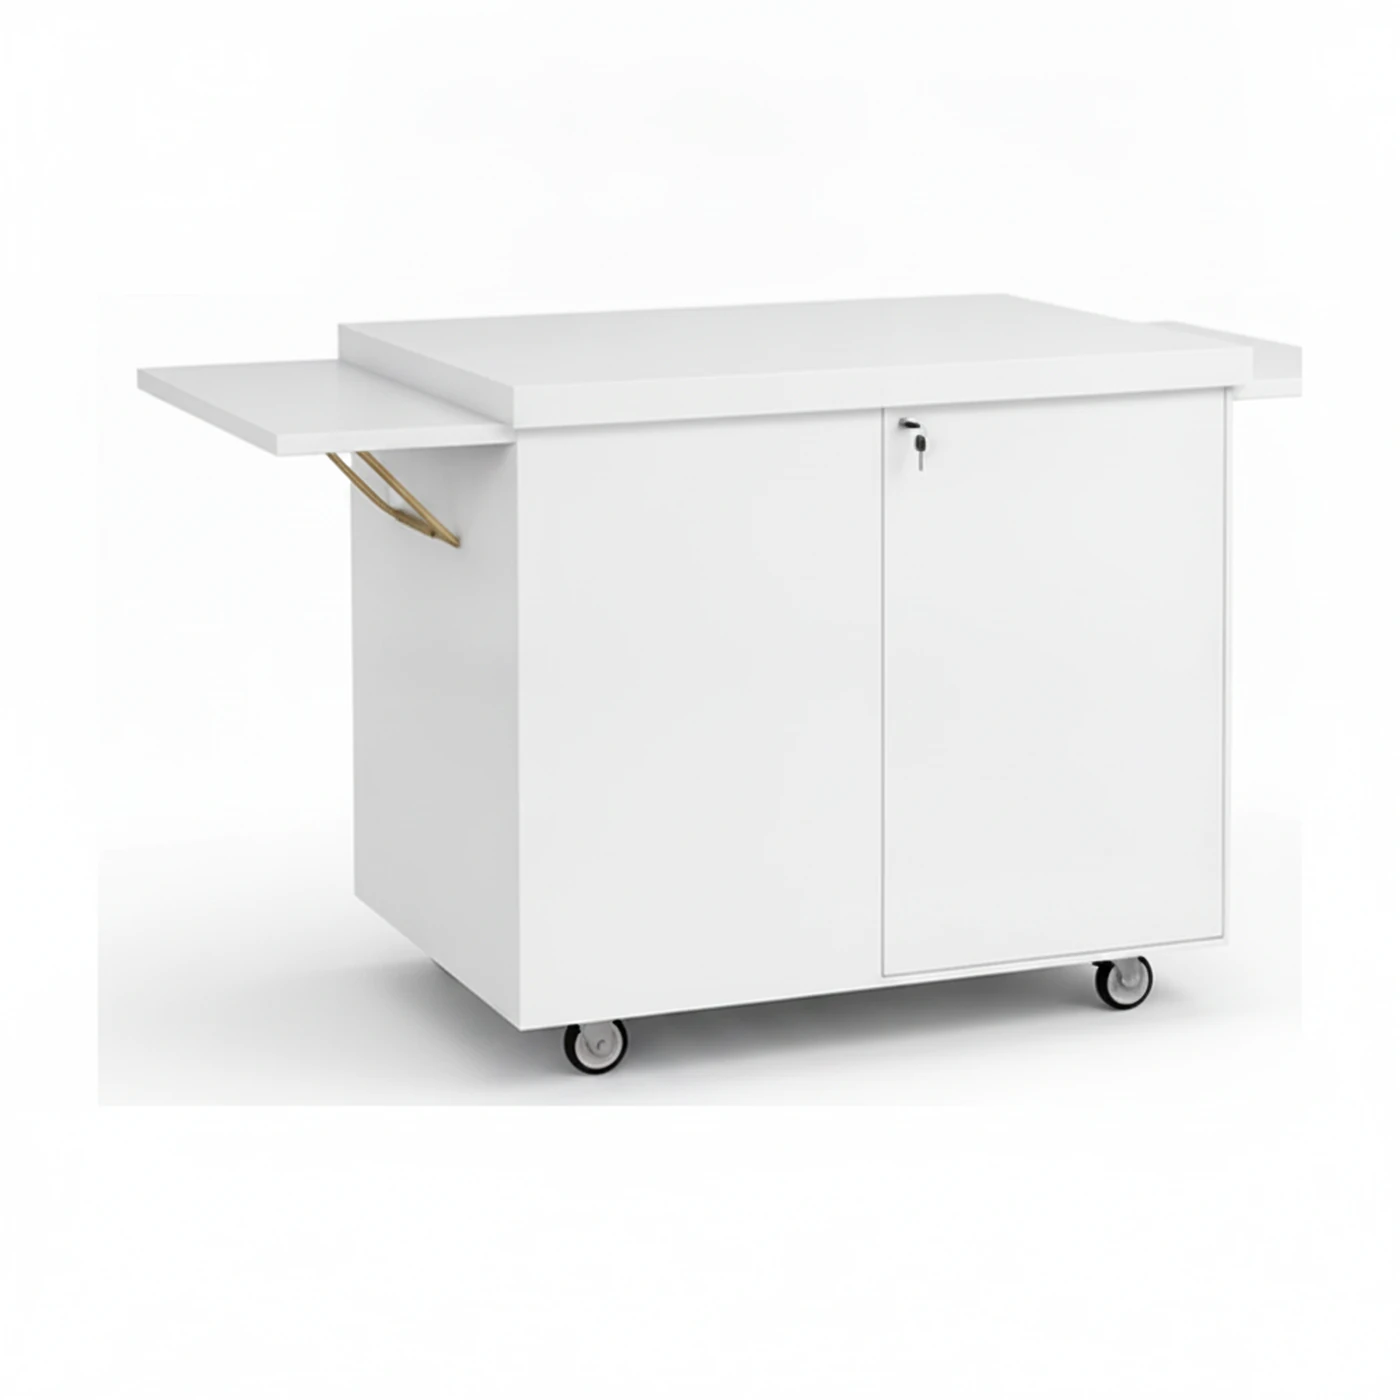
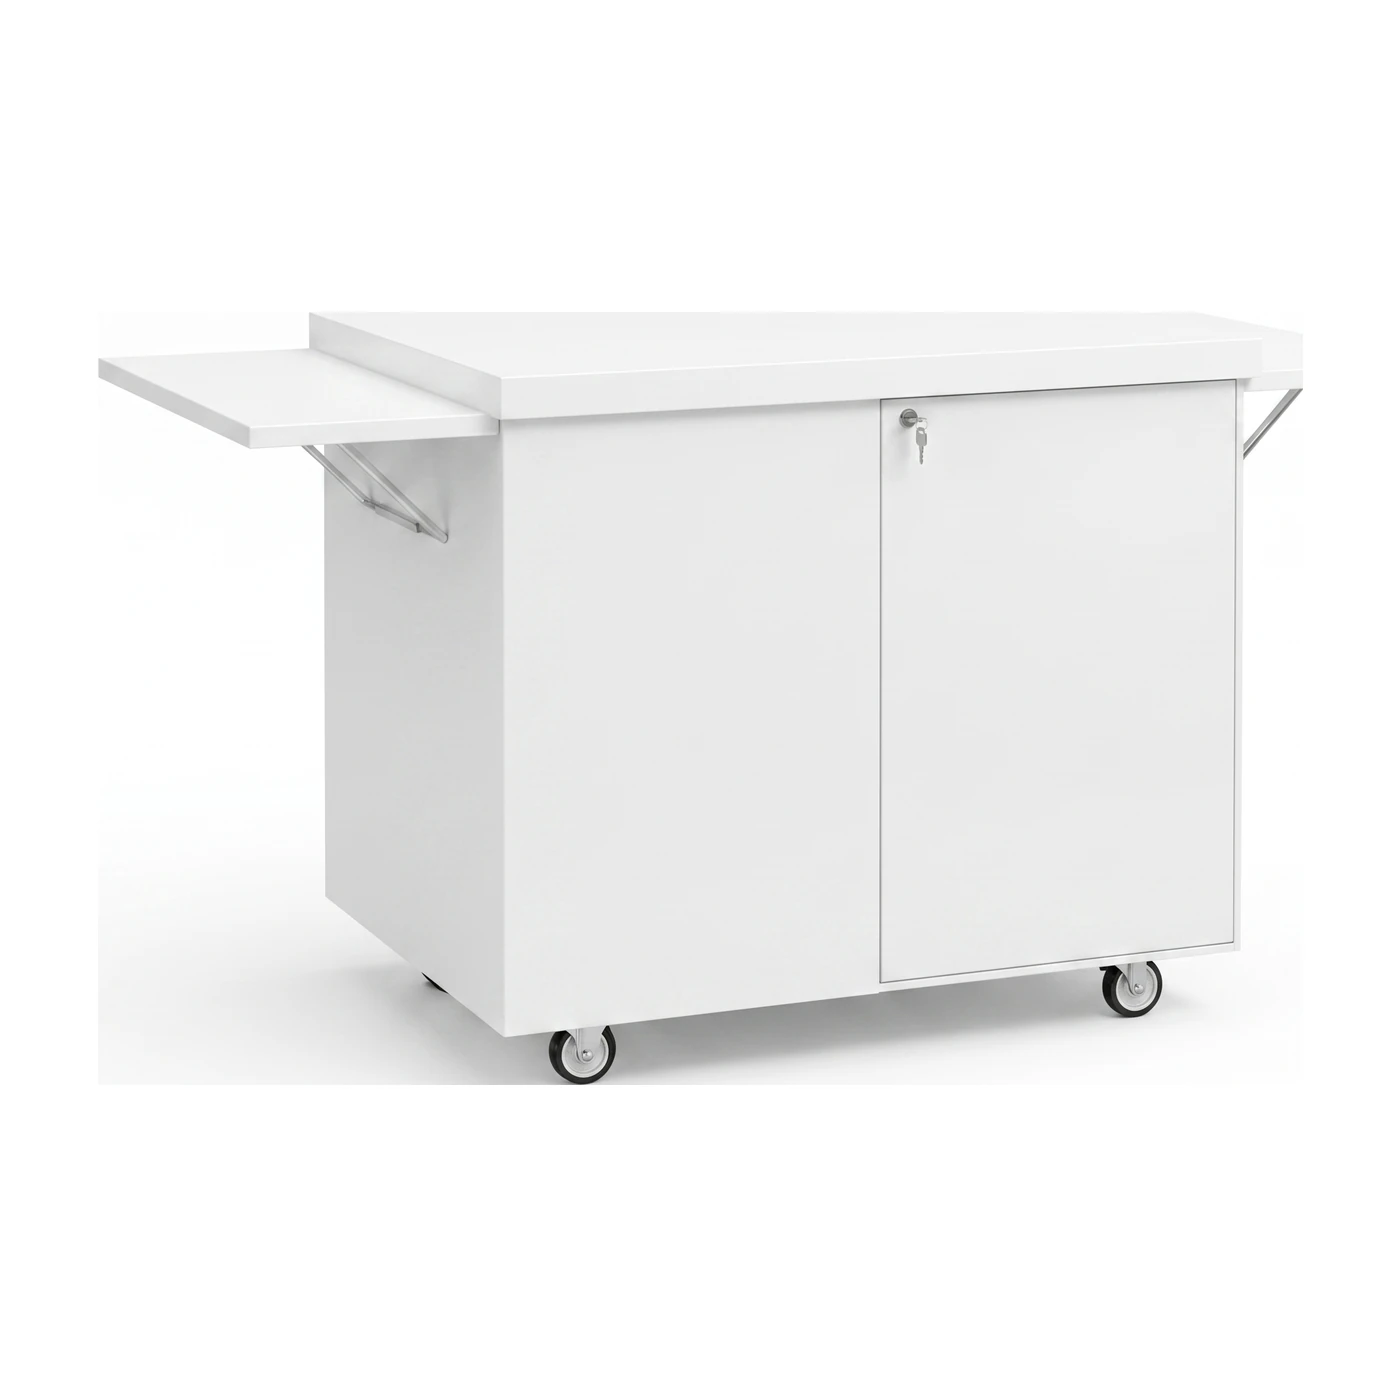
Beyaz tentesiz render'lari yerlestir: 100-krom-rafli, 100-pirinc-rafli, 150-pirinc-tutamacli
Gemini beyazlari 3 config'e KIRPMADAN, siyaha hizali yerlestirildi (slot1=on yuz). Olcum flood-fill genislik (canny yanlis-alarm veriyor). tekersiz_place.py manuel slot eslemesiyle. 100-pirinc-rafli beyazi krom setinin kopyasi (kabul edildi).

diff --git a/tools/recolor/tekersiz_place.py b/tools/recolor/tekersiz_place.py
@@ -1,0 +1,152 @@
+#!/usr/bin/env python3
+"""Kullanicinin Gemini web'de SIYAHTAN urettigi beyaz kareleri (rastgele isimli)
+siyahla esleyip (siluet IoU) dogru siraya + siyah boyutuna hizalayarak public'e yazar.
+
+Uretim YOK — sadece esleme + olcek/hiza. Siyahtan uretildikleri icin geometri
+siyahla ayni => siluet IoU esleme guvenilir.
+"""
+import os, sys, glob
+import numpy as np
+from PIL import Image
+from skimage import feature, color
+from scipy import ndimage as ndi
+
+BASE = "C:/Users/kuruyemis/Desktop/RUMICARTS_BEYAZ_YAPILACAK"
+V2 = "public/renders/v2"
+
+# config -> (kullanici_klasoru, siyah_alt_yol, cikti_alt_yol)
+JOBS = {
+    "100-krom-rafli":       ("100-krom-rafli_TEKERSIZ",       "siyah/tentesiz/tekeryok", "beyaz/tentesiz/tekeryok"),
+    "100-pirinc-rafli":     ("100-pirinc-rafli_TEKERSIZ",     "siyah/tentesiz/tekeryok", "beyaz/tentesiz/tekeryok"),
+    "150-pirinc-tutamacli": ("150-pirinc-tutamacli_TENTESIZ", "siyah/tentesiz",          "beyaz/tentesiz"),
+}
+
+# GOZLE eslenmis sira: slot(0..6) -> isim-sirali dosya index(0..6).
+# Otomatik siluet/gradyan guvenilmez oldugu icin elle belirlendi (logo yuzu vs kapak yuzu + aci).
+MANUAL = {
+    "100-krom-rafli":       {0: 1, 1: 3, 2: 5, 3: 2, 4: 0, 5: 6, 6: 4},
+    "100-pirinc-rafli":     {0: 1, 1: 3, 2: 5, 3: 2, 4: 0, 5: 6, 6: 4},
+    "150-pirinc-tutamacli": {0: 0, 1: 4, 2: 6, 3: 5, 4: 1, 5: 2, 6: 3},
+}
+
+
+def white_mask(img):
+    g = color.rgb2gray(np.asarray(img.convert("RGB")).astype(float) / 255)
+    e = feature.canny(g, sigma=1.5)
+    return ndi.binary_fill_holes(ndi.binary_closing(e, iterations=3))
+
+
+def black_mask(img):
+    a = np.asarray(img.convert("RGB"))
+    return a.min(2) < 200
+
+
+def bbox(m):
+    ys, xs = np.where(m)
+    return int(xs.min()), int(xs.max()), int(ys.min()), int(ys.max())
+
+
+def sil96(m):
+    x0, x1, y0, y1 = bbox(m)
+    c = Image.fromarray((m[y0:y1+1, x0:x1+1] * 255).astype("uint8")).resize((96, 96))
+    return np.asarray(c) > 127
+
+
+def iou(a, b):
+    u = (a | b).sum()
+    return (a & b).sum() / u if u else 0
+
+
+def grad_feat(img, mask):
+    """arac bbox'ina normalize edilmis gradyan-buyuklugu haritasi (ic yapi = aci imzasi).
+    siyah/beyaz fark etmez: kenarlar (logo, kapak, tutamac, tekerlek) ayni yerde."""
+    x0, x1, y0, y1 = bbox(mask)
+    g = np.asarray(img.convert("L").crop((x0, y0, x1 + 1, y1 + 1)).resize((160, 160))).astype(float)
+    gx = np.abs(np.diff(g, axis=1, prepend=g[:, :1]))
+    gy = np.abs(np.diff(g, axis=0, prepend=g[:1, :]))
+    mag = np.sqrt(gx * gx + gy * gy)
+    mag -= mag.mean()
+    n = np.linalg.norm(mag)
+    return mag / n if n else mag
+
+
+def ncc(a, b):
+    return float((a * b).sum())
+
+
+def black_bbox_trim(img):
+    """siyah bbox, alt koyu golge seridini disla."""
+    a = np.asarray(img.convert("RGB"))
+    x0, x1, y0, y1 = bbox(black_mask(img))
+    while y1 > y0 + 50 and a[y1].min(1).mean() < 30:
+        y1 -= 1
+    return x0, x1, y0, y1
+
+
+def white_bbox_trim(img):
+    a = np.asarray(img.convert("RGB"))
+    x0, x1, y0, y1 = bbox(white_mask(img))
+    while y1 > y0 + 50 and a[y1].min(1).mean() < 50:
+        y1 -= 1
+    return x0, x1, y0, y1
+
+
+def process(cfg, apply=False):
+    ufolder, sisub, outsub = JOBS[cfg]
+    ufiles = sorted(glob.glob(f"{BASE}/{ufolder}/2_BEYAZ_buraya_koy/*.png") +
+                    glob.glob(f"{BASE}/{ufolder}/2_BEYAZ_buraya_koy/*.webp") +
+                    glob.glob(f"{BASE}/{ufolder}/2_BEYAZ_buraya_koy/*.jpg"))
+    if len(ufiles) != 7:
+        print(f"!! {cfg}: {len(ufiles)} dosya (7 olmali) — atlaniyor")
+        return
+    uimgs = [Image.open(f).convert("RGB") for f in ufiles]
+    ufeat = [grad_feat(im, white_mask(im)) for im in uimgs]
+    siyah = [Image.open(f"{V2}/{cfg}/{sisub}/{i:02d}.webp").convert("RGB") for i in range(1, 8)]
+    sfeat = [grad_feat(im, black_mask(im)) for im in siyah]
+
+    if cfg in MANUAL:
+        slot2u = dict(MANUAL[cfg])
+        mode = "ELLE"
+    else:
+        pairs = sorted([(ncc(sfeat[s], ufeat[u]), s, u) for s in range(7) for u in range(7)], reverse=True)
+        slot2u = {}; usedu = set()
+        for sc, s, u in pairs:
+            if s in slot2u or u in usedu:
+                continue
+            slot2u[s] = u; usedu.add(u)
+        mode = "OTO"
+
+    print(f"\n{cfg}: esleme ({mode}) slot<-dosya")
+    for s in range(7):
+        u = slot2u[s]
+        print(f"  slot{s+1:02d} <- {os.path.basename(ufiles[u])[:28]}")
+
+    if not apply:
+        return
+    outdir = f"{V2}/{cfg}/{outsub}"
+    os.makedirs(outdir, exist_ok=True)
+    for s in range(7):
+        u = slot2u[s]
+        im = uimgs[u]
+        wx0, wx1, wy0, wy1 = white_bbox_trim(im)
+        crop = im.crop((wx0, wy0, wx1 + 1, wy1 + 1))
+        bw, bh = wx1 - wx0 + 1, wy1 - wy0 + 1
+        sx0, sx1, sy0, sy1 = black_bbox_trim(siyah[s])
+        sw, sh = sx1 - sx0 + 1, sy1 - sy0 + 1
+        sc = min(sw / bw, sh / bh)
+        nw, nh = max(1, round(bw * sc)), max(1, round(bh * sc))
+        crop = crop.resize((nw, nh), Image.LANCZOS)
+        cv = Image.new("RGB", (1400, 1400), (255, 255, 255))
+        cx, cy = (sx0 + sx1) / 2, (sy0 + sy1) / 2
+        cv.paste(crop, (round(cx - nw / 2), round(cy - nh / 2)))
+        cv.save(f"{outdir}/{s+1:02d}.webp", "WEBP", quality=90, method=6)
+    print(f"  -> YAZILDI: {outdir}")
+
+
+if __name__ == "__main__":
+    apply = "--apply" in sys.argv
+    only = next((a for a in sys.argv[1:] if not a.startswith("--")), None)
+    for cfg in JOBS:
+        if only and cfg != only:
+            continue
+        process(cfg, apply=apply)

diff --git a/tools/recolor/beyaz_uncut_fix.py b/tools/recolor/beyaz_uncut_fix.py
@@ -1,0 +1,128 @@
+#!/usr/bin/env python3
+"""Beyaz tentesiz setleri KIRPMADAN (canny siluet) siyahla AYNI boyuta getirir + sirala.
+
+Sorun: beyaz govde=beyaz zemin -> min-esik ile olculemiyor, onceki yerlestirme kenari kesiyordu.
+Cozum: skimage canny beyaz cart tam siluetini (masa uclari dahil) verir -> union bbox sabit crop
+(siyah pipeline'inin aynisi) -> cart siyahla ayni fraction (~0.86) -> AYNI boyut, kesiksiz, tutarli.
+Sira: mevcut public beyaz slot -> native kare (canny siluet IoU, beyaz-beyaz guvenilir) = pub2nat,
+sonra kullanici perm'i (mevcut gorunume gore) uygulanir.
+"""
+import sys, os
+import numpy as np
+from PIL import Image
+from skimage import feature, color
+from scipy import ndimage as ndi
+
+DESK = "C:/Users/kuruyemis/Desktop"
+V2 = "public/renders/v2"
+OUT = "tools/recolor/_beyaz_uncut/{cfg}"
+TARGET_FRAC = 0.86  # siyah cart ~%86 dolduruyor
+
+# cfg -> (native_beyaz_folder, perm|None)  perm: yeni slot(i) <- MEVCUT public slot perm[i]
+JOBS = {
+    "150-krom-tutamacli": ("TENTESIZ_150KROMTUTAMACLI", [1,3,2,6,5,4,7]),
+    "150-pirinc-rafli":   ("TENTESIZ_150PIRINCRAFLI",   None),
+    "150-pirinc-tutamacli":("TENTESIZ_150PIRINCTUTAMACLI",[3,1,2,4,5,6,7]),
+    "100-krom-rafli":     ("TENTESIZ_100KROMSAPLI",     None),
+    "100-pirinc-rafli":   ("TENTESIZ_100PIRINCRAFLI",   None),
+    "100-pirinc-tutamacli":("TENTESIZ_100PIRINCTUTAMACLI",[1,3,2,6,5,4,7]),
+}
+
+def canny_mask(img):
+    g = color.rgb2gray(np.asarray(img.convert("RGB")).astype(float) / 255)
+    e = feature.canny(g, sigma=1.5)
+    return ndi.binary_fill_holes(ndi.binary_closing(e, iterations=3))
+
+def bbox(m):
+    ys, xs = np.where(m)
+    return int(xs.min()), int(xs.max()), int(ys.min()), int(ys.max())
+
+def norm_sil(img):
+    """bbox'a normalize edilmis 96x96 siluet (poz/olcek bagimsiz eslesme)."""
+    m = canny_mask(img)
+    x0, x1, y0, y1 = bbox(m)
+    c = Image.fromarray((m[y0:y1+1, x0:x1+1] * 255).astype("uint8")).resize((96, 96))
+    return np.asarray(c) > 127
+
+def iou(a, b):
+    u = (a | b).sum()
+    return (a & b).sum() / u if u else 0
+
+def _orb_feats(img):
+    import cv2
+    g = cv2.cvtColor(np.asarray(img.convert("RGB")), cv2.COLOR_RGB2GRAY)
+    orb = cv2.ORB_create(nfeatures=1500)
+    return orb.detectAndCompute(g, None)
+
+def _orb_score(fa, fb):
+    import cv2
+    ka, da = fa; kb, db = fb
+    if da is None or db is None: return 0
+    bf = cv2.BFMatcher(cv2.NORM_HAMMING, crossCheck=True)
+    m = bf.match(da, db)
+    good = [x for x in m if x.distance < 64]
+    return len(good)
+
+def pub2nat(cfg, nat_imgs):
+    """mevcut public beyaz slot(0..6) -> native kare(0..6). ORB (ayni render, crop farkli) = guvenilir."""
+    pub = [Image.open(f"{V2}/{cfg}/beyaz/tentesiz/{i:02d}.webp").convert("RGB") for i in range(1, 8)]
+    pf = [_orb_feats(im) for im in pub]
+    nf = [_orb_feats(im) for im in nat_imgs]
+    pairs = sorted([(_orb_score(pf[p], nf[n]), p, n) for p in range(7) for n in range(7)], reverse=True)
+    P = {}; used = set()
+    for sc, p, n in pairs:
+        if p in P or n in used: continue
+        P[p] = n; used.add(n)
+    return [P[p] for p in range(7)]
+
+def cart_bbox(img):
+    """canny cart bbox + alt koyu golge seridi kirp."""
+    a = np.asarray(img.convert("RGB"))
+    m = canny_mask(img)
+    x0, x1, y0, y1 = bbox(m)
+    while y1 > y0 + 50 and a[y1].min(1).mean() < 50:  # neredeyse-siyah golge satiri disla
+        y1 -= 1
+    return x0, x1, y0, y1
+
+def siyah_slot_bbox(cfg, slot):
+    """siyah ayni output-slotunun arac bbox'i (kare-basi hizalama referansi)."""
+    a = np.asarray(Image.open(f"{V2}/{cfg}/siyah/tentesiz/{slot:02d}.webp").convert("RGB"))
+    m = a.min(2) < 200
+    ys, xs = np.where(m)
+    y0, y1 = int(ys.min()), int(ys.max())
+    while y1 > y0 + 50 and a[y1].min(1).mean() < 30:  # alt golge seridi disla
+        y1 -= 1
+    return int(xs.min()), int(xs.max()), y0, y1
+
+def process(cfg, folder, perm):
+    nat = [Image.open(f"{DESK}/{folder}/{i:02d}.png").convert("RGB") for i in range(1, 8)]
+    boxes = [cart_bbox(im) for im in nat]
+    order = perm if perm else list(range(1, 8))
+    p2n = pub2nat(cfg, nat)
+    od = OUT.format(cfg=cfg); os.makedirs(od, exist_ok=True)
+    widths = []
+    for out_slot in range(7):
+        pub_slot = order[out_slot] - 1
+        nat_idx = p2n[pub_slot]
+        img = nat[nat_idx]; x0, x1, y0, y1 = boxes[nat_idx]
+        crop = img.crop((x0, y0, x1 + 1, y1 + 1))
+        bw, bh = x1 - x0 + 1, y1 - y0 + 1
+        # KARE-BASI: siyah ayni slotun bbox'ina sigacak sekilde olcekle (min oran = kesme yok)
+        sx0, sx1, sy0, sy1 = siyah_slot_bbox(cfg, out_slot + 1)
+        sw, sh = sx1 - sx0 + 1, sy1 - sy0 + 1
+        s = min(sw / bw, sh / bh)
+        nw, nh = max(1, round(bw * s)), max(1, round(bh * s))
+        crop = crop.resize((nw, nh), Image.LANCZOS)
+        cv = Image.new("RGB", (1400, 1400), (255, 255, 255))
+        cx, cy = (sx0 + sx1) / 2, (sy0 + sy1) / 2      # siyah arac merkezine hizala
+        cv.paste(crop, (round(cx - nw / 2), round(cy - nh / 2)))
+        cv.save(f"{od}/{out_slot+1:02d}.webp", "WEBP", quality=90, method=6)
+        widths.append(nw)
+    return p2n, widths
+
+if __name__ == "__main__":
+    only = sys.argv[1] if len(sys.argv) > 1 else None
+    for cfg, (folder, perm) in JOBS.items():
+        if only and cfg != only: continue
+        p2n, widths = process(cfg, folder, perm)
+        print(f"{cfg}: pub2nat={[x+1 for x in p2n]} perm={perm} cart_gen={widths}")

diff --git a/tools/recolor/tekersiz_kadraj_fix.py b/tools/recolor/tekersiz_kadraj_fix.py
@@ -1,0 +1,87 @@
+#!/usr/bin/env python3
+"""Beyaz TEKERSIZ (tekeryok) karelerin kadrajini SIYAH tekersize hizalar.
+
+Sorun: beyaz tekersiz kareler ayri islemle uretildi, olcek siyaha normalize
+edilmedi -> arac buyuk/kaymis (kadraj sorunu). Tekerlekli beyaz DOGRU.
+Cozum: mevcut beyaz tekersiz webp'i canny bbox ile olc, SABIT olcek
+(siyah_target_w / beyaz_max_w) ile kucult, her kareyi SIYAH ayni karenin
+arac-merkezine yerlestir. Kredi/uretim yok, sadece yeniden olcekleme.
+"""
+import sys, os
+import numpy as np
+from PIL import Image
+from skimage import feature, color
+from scipy import ndimage as ndi
+
+V2 = "public/renders/v2"
+CONFIGS = ["100-krom-rafli", "100-pirinc-rafli"]
+
+
+def canny_bbox(img):
+    """beyaz-zemin uzerindeki beyaz arac icin canny siluet bbox (masa uclari dahil)."""
+    g = color.rgb2gray(np.asarray(img.convert("RGB")).astype(float) / 255)
+    e = feature.canny(g, sigma=1.5)
+    m = ndi.binary_fill_holes(ndi.binary_closing(e, iterations=3))
+    ys, xs = np.where(m)
+    a = np.asarray(img.convert("RGB"))
+    y0, y1 = int(ys.min()), int(ys.max())
+    x0, x1 = int(xs.min()), int(xs.max())
+    while y1 > y0 + 50 and a[y1].min(1).mean() < 50:  # alt koyu golge seridi
+        y1 -= 1
+    return x0, x1, y0, y1
+
+
+def siyah_bbox(img):
+    """siyah arac beyaz zeminde: min(RGB)<200 maskesi guvenilir."""
+    a = np.asarray(img.convert("RGB"))
+    m = a.min(2) < 200
+    ys, xs = np.where(m)
+    y0, y1 = int(ys.min()), int(ys.max())
+    while y1 > y0 + 50 and a[y1].min(1).mean() < 30:
+        y1 -= 1
+    return int(xs.min()), int(xs.max()), y0, y1
+
+
+def process(cfg, apply=False):
+    # siyah tekersiz referans: per-kare bbox -> target genislik (max) + arac merkezleri
+    sib = []
+    for i in range(1, 8):
+        im = Image.open(f"{V2}/{cfg}/siyah/tentesiz/tekeryok/{i:02d}.webp")
+        sib.append(siyah_bbox(im))
+    target_w = max(b[1] - b[0] for b in sib)
+    sc = [((b[0] + b[1]) / 2, (b[2] + b[3]) / 2) for b in sib]  # siyah arac merkezleri
+
+    # beyaz tekersiz mevcut: per-kare canny bbox -> en genis (sabit olcek icin)
+    bey = [Image.open(f"{V2}/{cfg}/beyaz/tentesiz/tekeryok/{i:02d}.webp").convert("RGB") for i in range(1, 8)]
+    bb = [canny_bbox(im) for im in bey]
+    beyaz_max = max(b[1] - b[0] for b in bb)
+    scale = target_w / beyaz_max
+
+    print(f"\n{cfg}: siyah_target_w={target_w}  beyaz_max_w={beyaz_max}  scale={scale:.4f}")
+    for i in range(7):
+        bw = bb[i][1] - bb[i][0]
+        print(f"  kare{i+1}: beyaz_w={bw} -> {round(bw*scale)}  siyah_w={sib[i][1]-sib[i][0]}"
+              f"  merkez siyah=({sc[i][0]:.0f},{sc[i][1]:.0f})")
+
+    if not apply:
+        return
+    for i in range(7):
+        x0, x1, y0, y1 = bb[i]
+        crop = bey[i].crop((x0, y0, x1 + 1, y1 + 1))
+        nw = max(1, round((x1 - x0 + 1) * scale))
+        nh = max(1, round((y1 - y0 + 1) * scale))
+        crop = crop.resize((nw, nh), Image.LANCZOS)
+        cv = Image.new("RGB", (1400, 1400), (255, 255, 255))
+        cx, cy = sc[i]  # siyah ayni karenin merkezine hizala
+        cv.paste(crop, (round(cx - nw / 2), round(cy - nh / 2)))
+        cv.save(f"{V2}/{cfg}/beyaz/tentesiz/tekeryok/{i+1:02d}.webp", "WEBP", quality=90, method=6)
+    print(f"  -> YAZILDI ({cfg})")
+
+
+if __name__ == "__main__":
+    apply = "--apply" in sys.argv
+    only = next((a for a in sys.argv[1:] if not a.startswith("--")), None)
+    for cfg in CONFIGS:
+        if only and cfg != only:
+            continue
+        process(cfg, apply=apply)

diff --git a/tools/recolor/dewheel_gemini.py b/tools/recolor/dewheel_gemini.py
@@ -42,11 +42,13 @@ def prompt(renk, config=""):
     d = DESC[renk]
     # config-tipine duyarli parca clause'u: rafli = yan MASA var/tutamac YOK; tutamacli = tersi
     c = config.lower()
+    metal = "brass/gold" if "pirinc" in c else "chrome/silver"
     if "rafli" in c:
         parts = (
             "Keep the fold-out side tables/shelves EXACTLY as they appear in the input (same side, "
             "same fold state). IMPORTANT: if the input shows a fold-out table on BOTH the left AND "
-            "the right, keep BOTH tables fully extended (each with its single brass support arm) — "
+            f"the right, keep BOTH tables fully extended (each with its single {metal} support arm "
+            f"that KEEPS its original {metal} metal color — do NOT turn the support arm gold or brass) — "
             "when removing the wheel do NOT drop, hide, shorten, or omit the far-side (usually LEFT) "
             "table. This cart has NO push handle — do NOT add, draw, or invent ANY handle, bar, rail, "
             "or chrome tube anywhere. Below the tables the body is a SOLID CLOSED rectangular cabinet "
